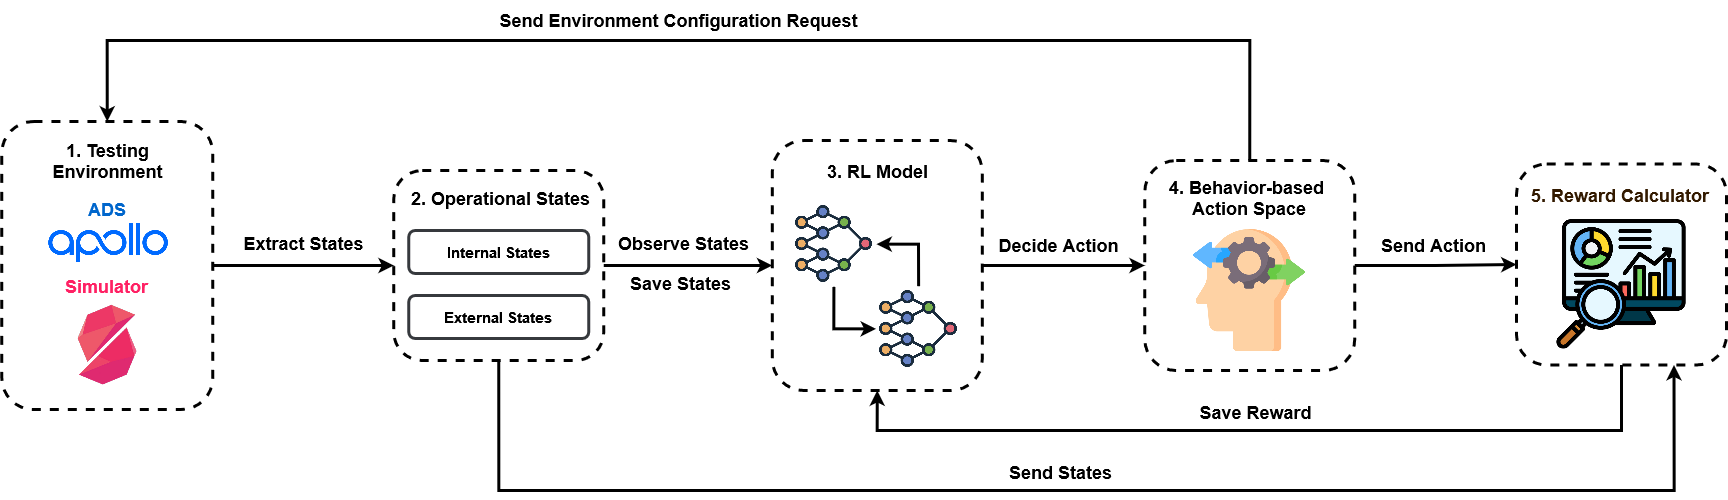
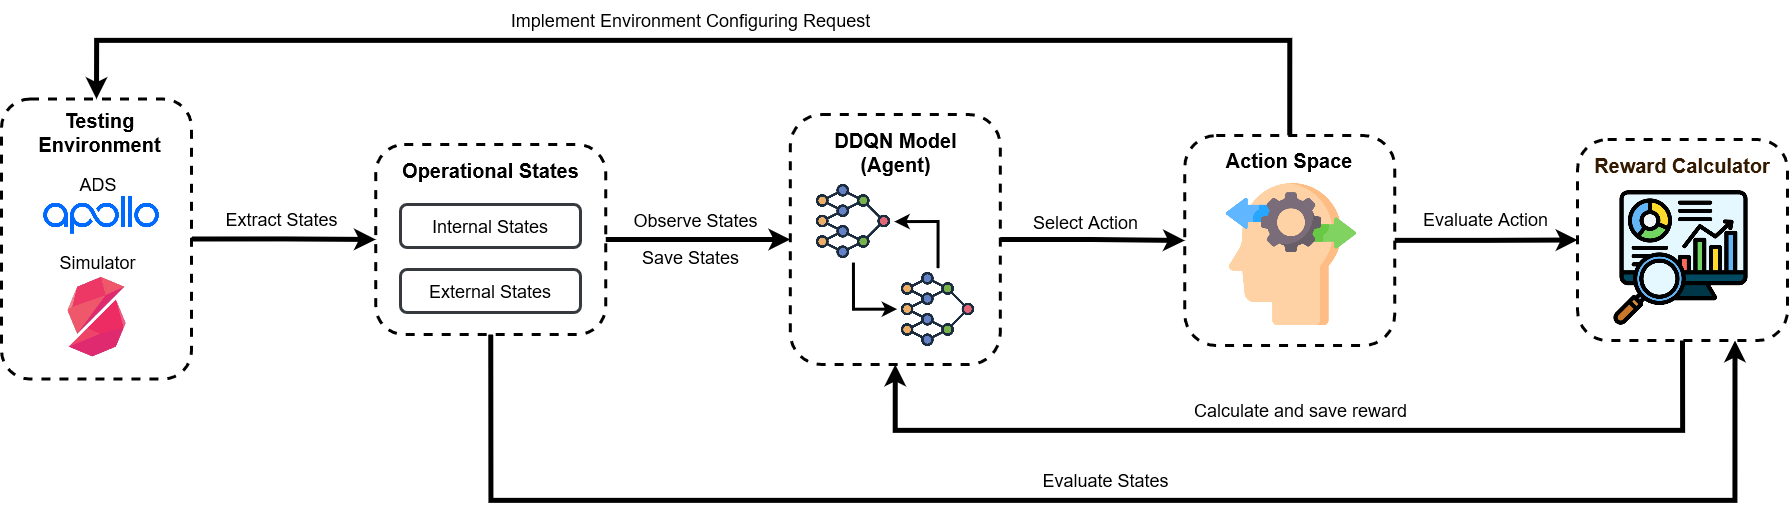
adjust readme and crisis-architecture

diff --git a/README.md b/README.md
@@ -7,13 +7,9 @@
 
 ## Introduction
 
-In this paper, we propose CRISIS, a Reinforcement Learning (RL)-based approach to generate realistic critical scenarios for testing ADSs.
-To comprehensively capture the complexity of driving scenarios, CRISIS holistically represents the environment by both the **internal states** of the ADS and the **external states** of the surrounding factors. 
-CRISIS trains the RL agent to effectively configure the environment that places the AV in dangerous situations and potentially leads it to collisions. 
-We introduce a diverse set of actions that allows the RL agent to systematically configure both **environmental conditions** and **traffic participants**.
-Additionally, we enforce heuristic constraints to ensure the realism and relevance of the generated test scenarios.
+In this paper, we propose CRISIS, a Reinforcement Learning (RL)-based approach to generate realistic critical scenarios for testing ADSs in simulation environments. To capture the complexity of driving scenarios, CRISIS comprehensively represents the environment by both the **internal states** of an ADS under-test (e.g., the status of the ADS's core components, speed, or acceleration) and the **external states** of the surrounding factors in the simulation environment (e.g., weather, traffic flow, or road condition). CRISIS trains the RL agent to effectively configure the simulation environment that places the AV in dangerous situations and potentially leads it to collisions. We introduce a diverse set of actions that allows the RL agent to systematically configure both *environmental conditions* and *traffic participants*. Additionally, based on established safety requirements, we enforce heuristic constraints to ensure the realism and relevance of the generated test scenarios.
 
-CRISIS is evaluated on two popular simulation maps with four road configurations. The experimental results demonstrate its ability to outperform the state-of-the-art approach, DeepCollision, by generating 40\% to 110\% more collision scenarios. Furthermore, compared to Random Search, CRISIS achieves up to 250\% better performance. These results highlight the effectiveness of CRISIS in enhancing the safety testing of AVs through realistic comprehensive scenario generation.
+CRISIS is evaluated on two popular simulation maps with four different road configurations. Our results show CRISIS's ability to outperform the state-of-the-art approach by generating 30\% to 115\% more collision scenarios. Compared to the baseline based on Random Search, CRISIS achieves up to 275\% better performance. These results highlight the effectiveness of CRISIS in enhancing the safety testing of AVs through realistic comprehensive critical scenario generation.
 
 ## The architecture
 ![](figs/CRISIS-architecture.png)
